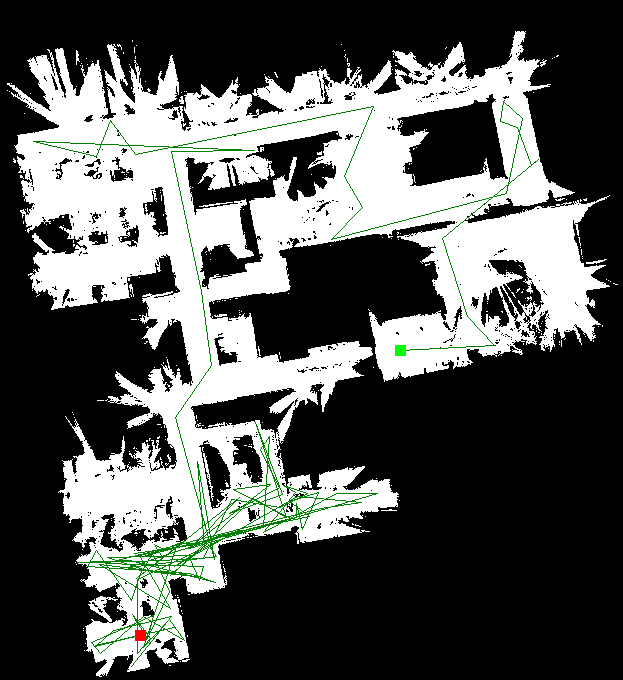
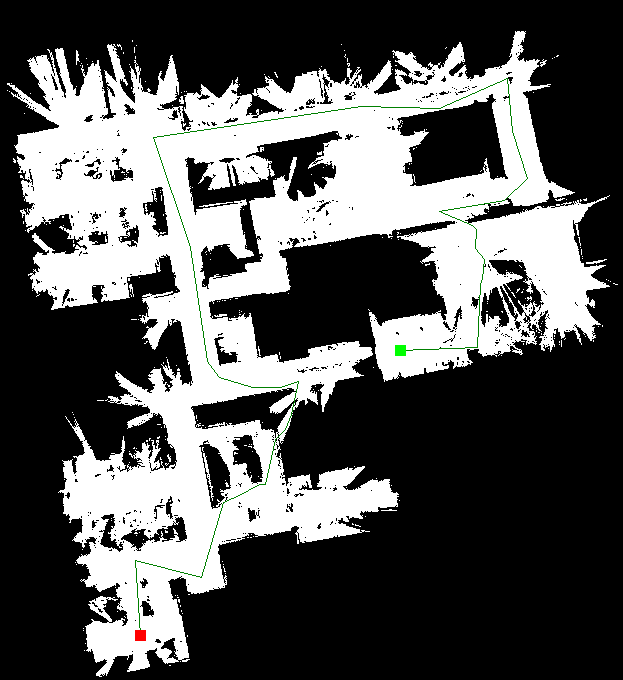
RRT Algo Updated

diff --git a/RRT.py b/RRT.py
@@ -2,7 +2,6 @@
 from PIL import Image,ImageDraw
 import numpy as np
 import random
-from matplotlib import pyplot as plt
 from bresenham import  bresenham
 #Import Occupancy Map
 occupancy_map_img = Image.open('occupancy_map.png')
@@ -58,6 +57,7 @@ class RRT_class:
         for node in self.nodes:
             if self._euclidean_distance(newvertex,node) < smallest_distance:
                 nearnode = node
+                smallest_distance=self._euclidean_distance(newvertex,node)
         return nearnode 
     #Private method (Direction of traversal)
     def _unitvector(self,nearnode,newvertex):
